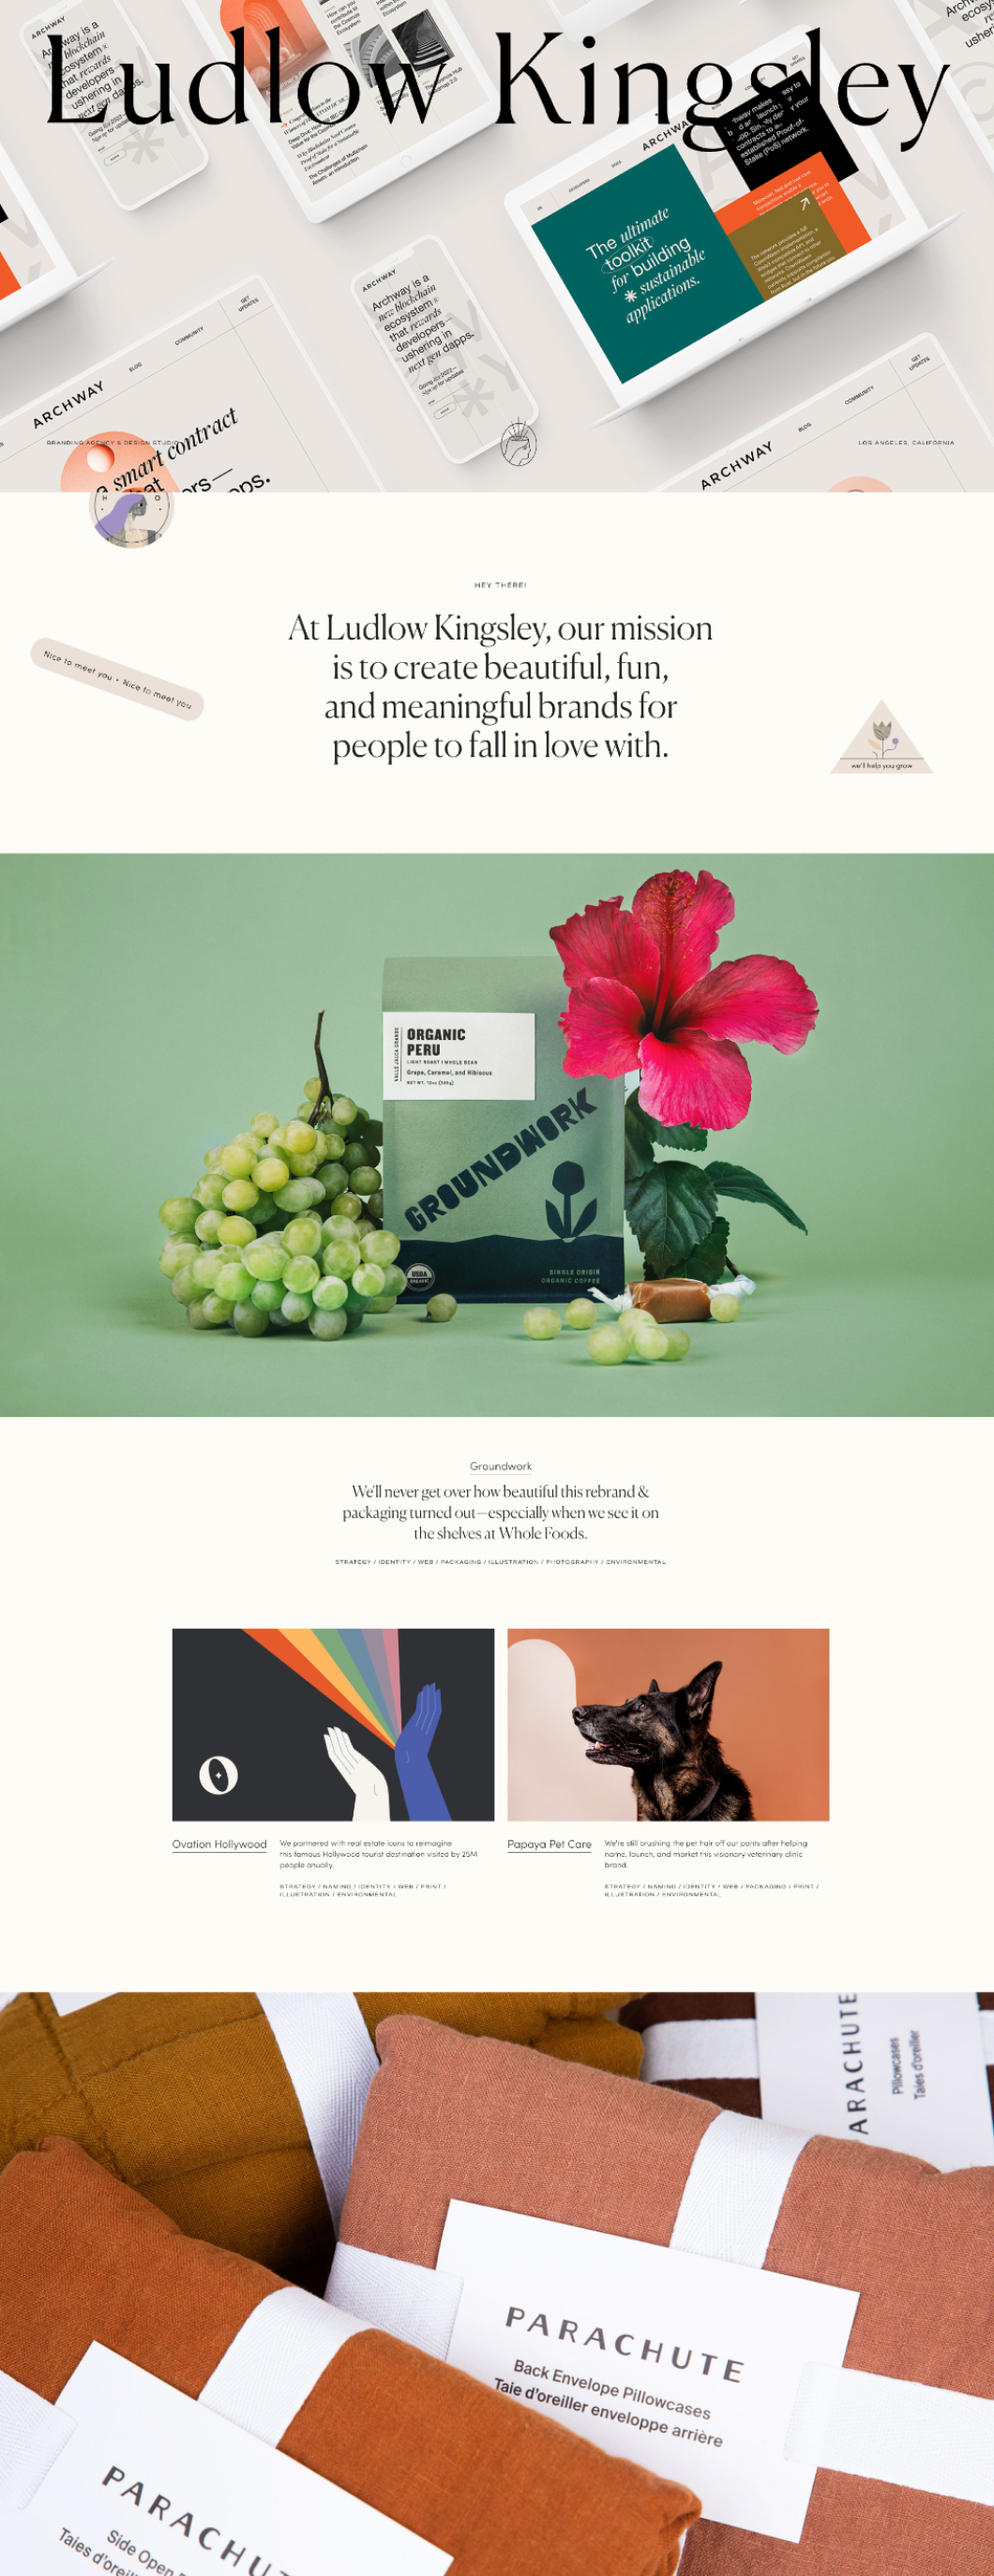
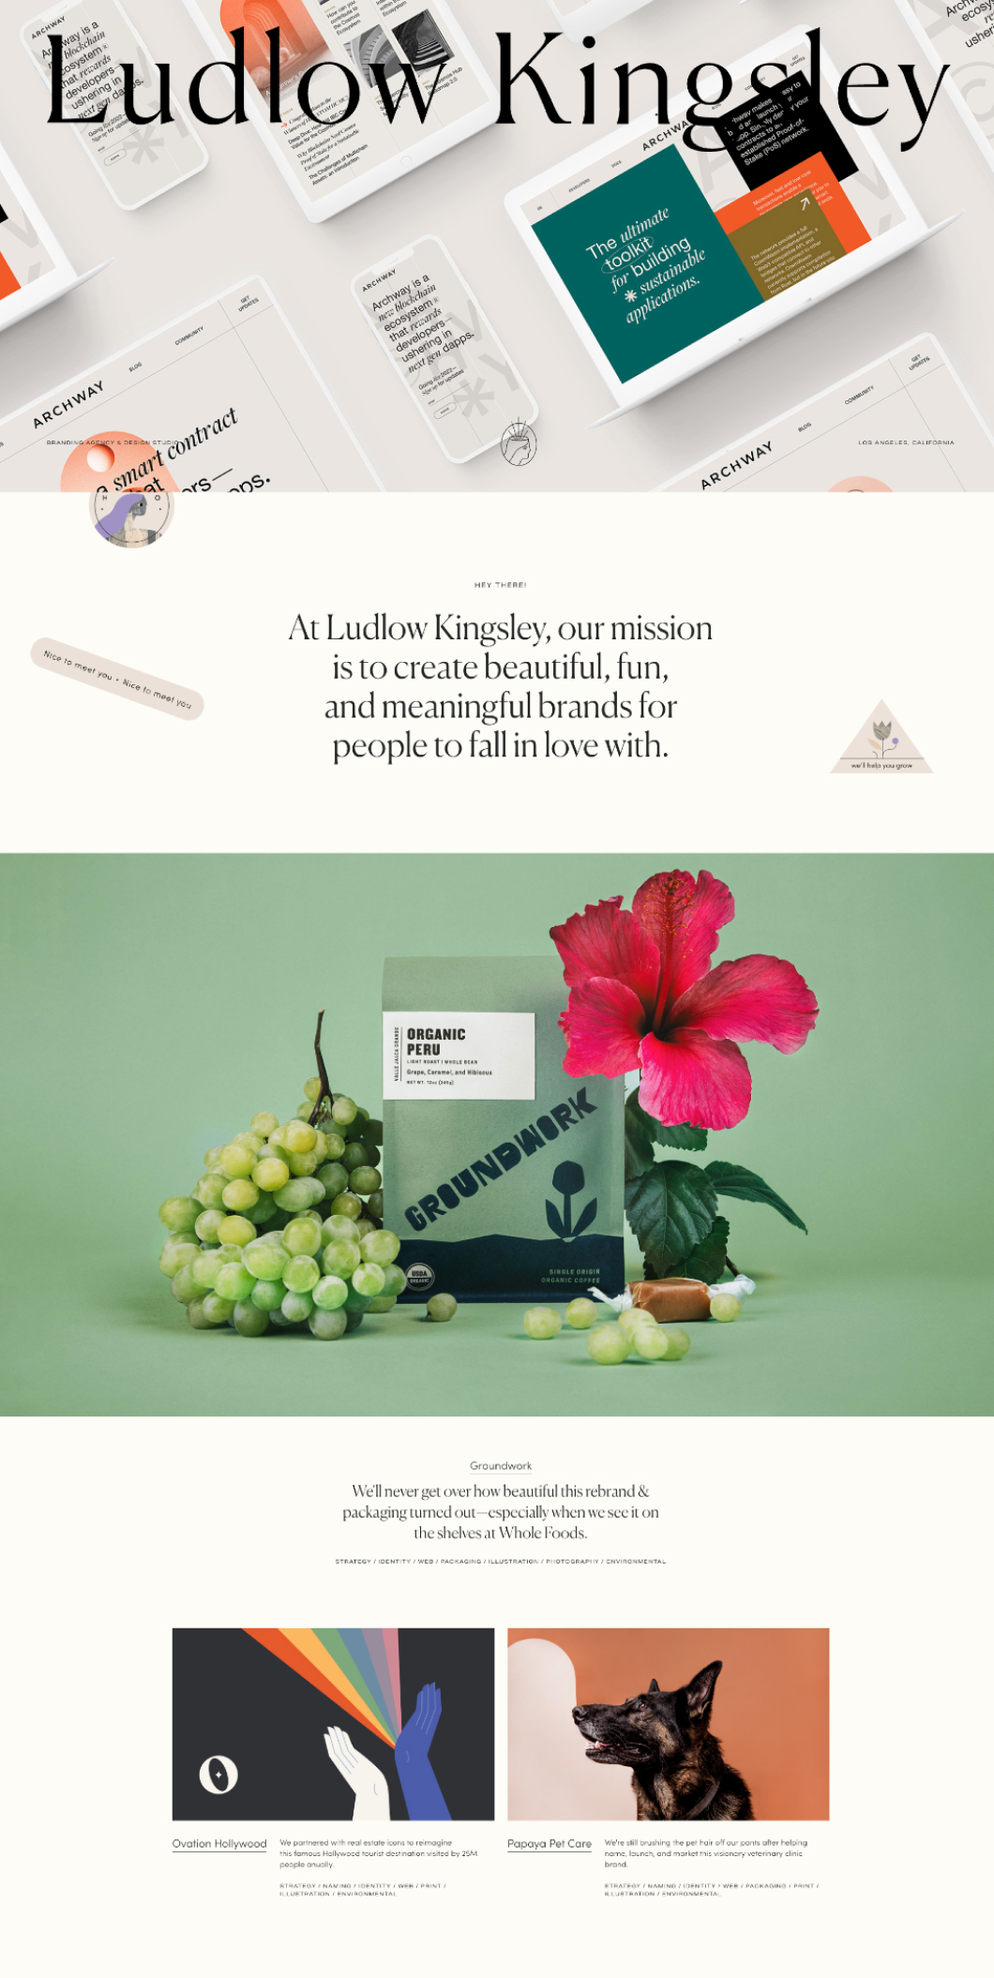
got project images in, playing with the looks

diff --git a/public/index.html b/public/index.html
@@ -24,13 +24,11 @@
 
 
 <section class="my-page-width"><div
-  class="flex gap-8 sm:gap-10 lg:gap-20 xl:gap-24 flex-col md:flex-row flex-nowrap js-bg-color pt-32"
+  class="flex gap-8 sm:gap-10 lg:gap-20 xl:gap-24 flex-col md:flex-row flex-nowrap js-bg-color pt-32 lowercase"
   data-color="[13,13,13]"
 >
   <div class="flex-1 min-w-0">
-    <h3
-      class="lowercase mb-8 font-bold text-6xl sm:text-7xl lg:text-8xl xl:text-9xl"
-    >
+    <h3 class="mb-8 font-bold text-6xl sm:text-7xl lg:text-8xl xl:text-9xl">
       bitbu
     </h3>
     <a
@@ -41,19 +39,19 @@
     </a>
     <img
       class="w-100 mt-24 border border-black"
-      src="/bitbu-cover.jpg"
-      alt="screenshot of ludlow kingsley's website"
+      src="/bitbu_home.jpg"
+      alt="screenshot of Bitbu&#39;s home page"
       loading="lazy"
       decoding="async"
       fetchpriority="low"
     />
   </div>
 
-  <div class="flex-1 min-w-0">
+  <div class="flex-1 min-w-0 flex flex-col-reverse md:flex-col gap-24">
     <img
-      class="w-full mt-0 mb-24 border border-black"
-      src="/bitbu-cover.jpg"
-      alt="screenshot of ludlow kingsley's website"
+      class="w-full mt-0 border border-black"
+      src="/bitbu_short.jpg"
+      alt="screenshot of Bitbu&#39;s playlist sharing page"
       loading="lazy"
       decoding="async"
       fetchpriority="low"
@@ -72,13 +70,11 @@
 </section>
 
 <section class="my-page-width"><div
-  class="flex gap-8 sm:gap-10 lg:gap-20 xl:gap-24 flex-col md:flex-row flex-nowrap js-bg-color pt-32"
-  data-color=""
+  class="flex gap-8 sm:gap-10 lg:gap-20 xl:gap-24 flex-col md:flex-row flex-nowrap js-bg-color pt-32 lowercase"
+  data-color="[253,253,247]"
 >
   <div class="flex-1 min-w-0">
-    <h3
-      class="lowercase mb-8 font-bold text-6xl sm:text-7xl lg:text-8xl xl:text-9xl"
-    >
+    <h3 class="mb-8 font-bold text-6xl sm:text-7xl lg:text-8xl xl:text-9xl">
       Ludlow Kingsley
     </h3>
     <a
@@ -90,18 +86,18 @@
     <img
       class="w-100 mt-24 border border-black"
       src="/ludlow_home.jpg"
-      alt="screenshot of ludlow kingsley's website"
+      alt="screenshot of ludlow kingsley&#39;s home page"
       loading="lazy"
       decoding="async"
       fetchpriority="low"
     />
   </div>
 
-  <div class="flex-1 min-w-0">
+  <div class="flex-1 min-w-0 flex flex-col-reverse md:flex-col gap-24">
     <img
-      class="w-full mt-0 mb-24 border border-black"
+      class="w-full mt-0 border border-black"
       src="/ludlow_project.jpg"
-      alt="screenshot of ludlow kingsley's website"
+      alt="screenshot of ludlow kingsley&#39;s website"
       loading="lazy"
       decoding="async"
       fetchpriority="low"
@@ -120,13 +116,11 @@
 </section>
 
 <section class="my-page-width"><div
-  class="flex gap-8 sm:gap-10 lg:gap-20 xl:gap-24 flex-col md:flex-row flex-nowrap js-bg-color pt-32"
-  data-color=""
+  class="flex gap-8 sm:gap-10 lg:gap-20 xl:gap-24 flex-col md:flex-row flex-nowrap js-bg-color pt-32 lowercase"
+  data-color="[13,74,27]"
 >
   <div class="flex-1 min-w-0">
-    <h3
-      class="lowercase mb-8 font-bold text-6xl sm:text-7xl lg:text-8xl xl:text-9xl"
-    >
+    <h3 class="mb-8 font-bold text-6xl sm:text-7xl lg:text-8xl xl:text-9xl">
       Jerde
     </h3>
     <a
@@ -137,19 +131,19 @@
     </a>
     <img
       class="w-100 mt-24 border border-black"
-      src="/bitbu-cover.jpg"
-      alt="screenshot of ludlow kingsley's website"
+      src="/jerde_home.jpg"
+      alt="screenshot of Jerde&#39;s home page"
       loading="lazy"
       decoding="async"
       fetchpriority="low"
     />
   </div>
 
-  <div class="flex-1 min-w-0">
+  <div class="flex-1 min-w-0 flex flex-col-reverse md:flex-col gap-24">
     <img
-      class="w-full mt-0 mb-24 border border-black"
-      src="/bitbu-cover.jpg"
-      alt="screenshot of ludlow kingsley's website"
+      class="w-full mt-0 border border-black"
+      src="/jerde_project.jpg"
+      alt="screenshot of one of Jerde&#39;s projects called the &#39;Hard Rock Seminole Spirit&#39;, showing some conceptual art for the project"
       loading="lazy"
       decoding="async"
       fetchpriority="low"
@@ -168,13 +162,11 @@
 </section>
 
 <section class="my-page-width"><div
-  class="flex gap-8 sm:gap-10 lg:gap-20 xl:gap-24 flex-col md:flex-row flex-nowrap js-bg-color pt-32"
-  data-color=""
+  class="flex gap-8 sm:gap-10 lg:gap-20 xl:gap-24 flex-col md:flex-row flex-nowrap js-bg-color pt-32 lowercase"
+  data-color="[255,255,255]"
 >
   <div class="flex-1 min-w-0">
-    <h3
-      class="lowercase mb-8 font-bold text-6xl sm:text-7xl lg:text-8xl xl:text-9xl"
-    >
+    <h3 class="mb-8 font-bold text-6xl sm:text-7xl lg:text-8xl xl:text-9xl">
       Heloisa Prieto
     </h3>
     <a
@@ -185,19 +177,19 @@
     </a>
     <img
       class="w-100 mt-24 border border-black"
-      src="/bitbu-cover.jpg"
-      alt="screenshot of ludlow kingsley's website"
+      src="/heloisa_home.jpg"
+      alt="screenshot of home page of Heloisa&#39;s website"
       loading="lazy"
       decoding="async"
       fetchpriority="low"
     />
   </div>
 
-  <div class="flex-1 min-w-0">
+  <div class="flex-1 min-w-0 flex flex-col-reverse md:flex-col gap-24">
     <img
-      class="w-full mt-0 mb-24 border border-black"
-      src="/bitbu-cover.jpg"
-      alt="screenshot of ludlow kingsley's website"
+      class="w-full mt-0 border border-black"
+      src="/heloisa_project.jpg"
+      alt="screenshot of books page of Heloisa&#39;s website"
       loading="lazy"
       decoding="async"
       fetchpriority="low"
@@ -216,13 +208,11 @@
 </section>
 
 <section class="my-page-width"><div
-  class="flex gap-8 sm:gap-10 lg:gap-20 xl:gap-24 flex-col md:flex-row flex-nowrap js-bg-color pt-32"
-  data-color=""
+  class="flex gap-8 sm:gap-10 lg:gap-20 xl:gap-24 flex-col md:flex-row flex-nowrap js-bg-color pt-32 lowercase"
+  data-color="[91,11,94]"
 >
   <div class="flex-1 min-w-0">
-    <h3
-      class="lowercase mb-8 font-bold text-6xl sm:text-7xl lg:text-8xl xl:text-9xl"
-    >
+    <h3 class="mb-8 font-bold text-6xl sm:text-7xl lg:text-8xl xl:text-9xl">
       JM Agency
     </h3>
     <a
@@ -233,19 +223,19 @@
     </a>
     <img
       class="w-100 mt-24 border border-black"
-      src="/bitbu-cover.jpg"
-      alt="screenshot of ludlow kingsley's website"
+      src="/jm_home.jpg"
+      alt="screenshot of home page for JM Agency"
       loading="lazy"
       decoding="async"
       fetchpriority="low"
     />
   </div>
 
-  <div class="flex-1 min-w-0">
+  <div class="flex-1 min-w-0 flex flex-col-reverse md:flex-col gap-24">
     <img
-      class="w-full mt-0 mb-24 border border-black"
-      src="/bitbu-cover.jpg"
-      alt="screenshot of ludlow kingsley's website"
+      class="w-full mt-0 border border-black"
+      src="/jm_project.jpg"
+      alt="screenshot of testimonials page for JM Agency"
       loading="lazy"
       decoding="async"
       fetchpriority="low"

diff --git a/templates/components/offset-blocks.html b/templates/components/offset-blocks.html
@@ -1,11 +1,9 @@
 <div
-  class="flex gap-8 sm:gap-10 lg:gap-20 xl:gap-24 flex-col md:flex-row flex-nowrap js-bg-color pt-32"
+  class="flex gap-8 sm:gap-10 lg:gap-20 xl:gap-24 flex-col md:flex-row flex-nowrap js-bg-color pt-32 lowercase"
   data-color="{{ .Color }}"
 >
   <div class="flex-1 min-w-0">
-    <h3
-      class="lowercase mb-8 font-bold text-6xl sm:text-7xl lg:text-8xl xl:text-9xl"
-    >
+    <h3 class="mb-8 font-bold text-6xl sm:text-7xl lg:text-8xl xl:text-9xl">
       {{ .Name }}
     </h3>
     <a
@@ -17,18 +15,18 @@
     <img
       class="w-100 mt-24 border border-black"
       src="{{ .Image1 }}"
-      alt="screenshot of ludlow kingsley's website"
+      alt="{{ .Image1Alt }}"
       loading="lazy"
       decoding="async"
       fetchpriority="low"
     />
   </div>
 
-  <div class="flex-1 min-w-0">
+  <div class="flex-1 min-w-0 flex flex-col-reverse md:flex-col gap-24">
     <img
-      class="w-full mt-0 mb-24 border border-black"
+      class="w-full mt-0 border border-black"
       src="{{ .Image2 }}"
-      alt="screenshot of ludlow kingsley's website"
+      alt="{{ .Image2Alt }}"
       loading="lazy"
       decoding="async"
       fetchpriority="low"

diff --git a/public/canvas-script.js b/public/canvas-script.js
@@ -52,7 +52,7 @@ function lighten([r, g, b], ratio) {
   return `rgb(${r},${g},${b})`;
 }
 
-function rectFromLeft(y, h, color = "", delay = 0, duration = 800) {
+function rectFromLeft(y, h, color = "", delay = 0, duration = 500) {
   const w = window.innerWidth;
   return new Rect(
     -w,
@@ -66,7 +66,7 @@ function rectFromLeft(y, h, color = "", delay = 0, duration = 800) {
     color
   );
 }
-function rectFromRight(y, h, color = "", delay = 0, duration = 800) {
+function rectFromRight(y, h, color = "", delay = 0, duration = 500) {
   const w = window.innerWidth;
   return new Rect(
     w,
@@ -87,7 +87,7 @@ function startFrameChange(color, N = 4) {
   const h = Math.ceil(window.innerHeight / N);
   for (let i = 0; i < N; i++) {
     RECTS.push(
-      rectFromRight(i * h, h, lighten(color, 0.2 * (Math.random() - 0.5)))
+      rectFromRight(i * h, h, lighten(color, 0.05 * (Math.random() - 0.5)))
     );
   }
 }

diff --git a/public/style.css b/public/style.css
@@ -684,6 +684,10 @@ video {
   flex-direction: column;
 }
 
+.flex-col-reverse {
+  flex-direction: column-reverse;
+}
+
 .flex-nowrap {
   flex-wrap: nowrap;
 }
@@ -1033,6 +1037,10 @@ body {
 @media (min-width: 768px) {
   .md\:flex-row {
     flex-direction: row;
+  }
+
+  .md\:flex-col {
+    flex-direction: column;
   }
 }
 

diff --git a/compiler/watch.go b/compiler/watch.go
@@ -186,10 +186,10 @@ func pageData() interface{} {
 				Role:      "Co-founder",
 				Business:  "Online tools for musician collaboration",
 				Tasks:     "everything tech",
-				Image1:    "/bitbu-cover.jpg",
-				Image1Alt: "screenshot of ludlow kingsley's website",
-				Image2:    "/bitbu-cover.jpg",
-				Image2Alt: "screenshot of ludlow kingsley's website",
+				Image1:    "/bitbu_home.jpg",
+				Image1Alt: "screenshot of Bitbu's home page",
+				Image2:    "/bitbu_short.jpg",
+				Image2Alt: "screenshot of Bitbu's playlist sharing page",
 				Color:     "[13,13,13]",
 			},
 			{
@@ -199,9 +199,10 @@ func pageData() interface{} {
 				Business:  "Corporate design agency",
 				Tasks:     "built websites for brands designed in-house",
 				Image1:    "/ludlow_home.jpg",
-				Image1Alt: "screenshot of ludlow kingsley's website",
+				Image1Alt: "screenshot of ludlow kingsley's home page",
 				Image2:    "/ludlow_project.jpg",
 				Image2Alt: "screenshot of ludlow kingsley's website",
+				Color:     "[253,253,247]",
 			},
 			{
 				Name:      "Jerde",
@@ -209,10 +210,11 @@ func pageData() interface{} {
 				Role:      "Frontend Developer",
 				Business:  "Architecture design firm",
 				Tasks:     "wrote the frontend for the visually striking Ludlow Kingsley design",
-				Image1:    "/bitbu-cover.jpg",
-				Image1Alt: "screenshot of ludlow kingsley's website",
-				Image2:    "/bitbu-cover.jpg",
-				Image2Alt: "screenshot of ludlow kingsley's website",
+				Image1:    "/jerde_home.jpg",
+				Image1Alt: "screenshot of Jerde's home page",
+				Image2:    "/jerde_project.jpg",
+				Image2Alt: "screenshot of one of Jerde's projects called the 'Hard Rock Seminole Spirit', showing some conceptual art for the project",
+				Color:     "[13,74,27]",
 			},
 			{
 				Name:      "Heloisa Prieto",
@@ -220,10 +222,11 @@ func pageData() interface{} {
 				Role:      "Fullstack developer",
 				Business:  "Prolific Brazilian writer",
 				Tasks:     "wrote front and backends for eugênia hanitzsch's design",
-				Image1:    "/bitbu-cover.jpg",
-				Image1Alt: "screenshot of ludlow kingsley's website",
-				Image2:    "/bitbu-cover.jpg",
-				Image2Alt: "screenshot of ludlow kingsley's website",
+				Image1:    "/heloisa_home.jpg",
+				Image1Alt: "screenshot of home page of Heloisa's website",
+				Image2:    "/heloisa_project.jpg",
+				Image2Alt: "screenshot of books page of Heloisa's website",
+				Color:     "[255,255,255]",
 			},
 			{
 				Name:      "JM Agency",
@@ -231,10 +234,11 @@ func pageData() interface{} {
 				Role:      "Fullstack developer",
 				Business:  "Prolific Brazilian writer",
 				Tasks:     "wrote custom wordpress theme for eugênia hanitzsch's design",
-				Image1:    "/bitbu-cover.jpg",
-				Image1Alt: "screenshot of ludlow kingsley's website",
-				Image2:    "/bitbu-cover.jpg",
-				Image2Alt: "screenshot of ludlow kingsley's website",
+				Image1:    "/jm_home.jpg",
+				Image1Alt: "screenshot of home page for JM Agency",
+				Image2:    "/jm_project.jpg",
+				Image2Alt: "screenshot of testimonials page for JM Agency",
+				Color:     "[91,11,94]",
 			},
 		},
 	}
